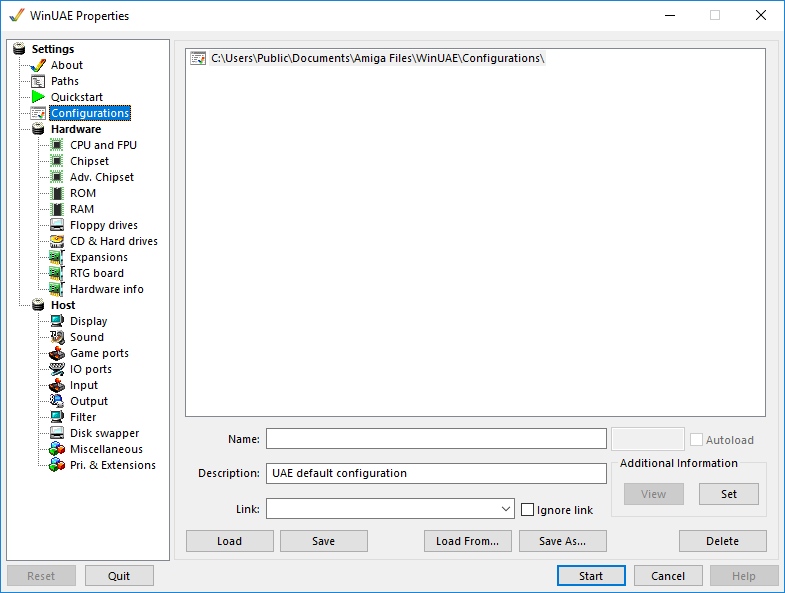
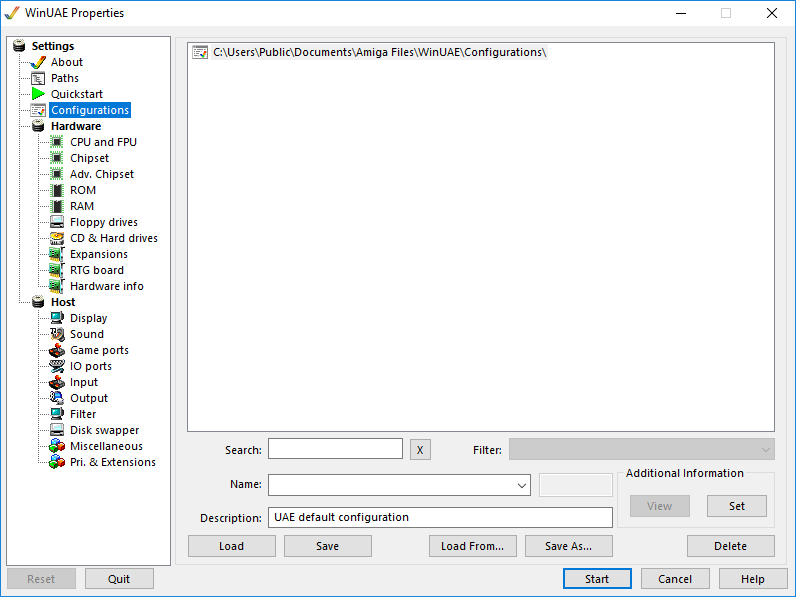
Latest updates for Winuae 4.1.0 Changes: Configurations,  CPU, Chipset, Misc, FAQ, Bugs, about

diff --git a/gui/misc.htm b/gui/misc.htm
@@ -24,16 +24,16 @@
     combination to quit WinUAE. If this option is enabled, the
     ALT-F4 combination can be used by the Amiga properly, and
     CTRL-F11 will quit WinUAE.<br>
-    <strong>Don't show taskbar button</strong>. Removes taskbar
+    <strong>Don't show taskbar button</strong>. Removes the taskbar
     button.<br>
-    <strong>Don't show notification icon.</strong>    Removes WinUAE icon from notification area. <strong><br>
+    <strong>Don't show notification icon.</strong>    Removes the WinUAE icon from the notification area. <strong><br>
     Always on
     top</strong> Make sure WinUAE window is always on top of other
     windows.<br>
     <strong>Disable screensaver</strong> Temporarily stops screen
     saver feature for the display when using WinUAE<br>
     <strong>Syncronize clock</strong> Synchronizes Amiga clock with
-    PC clock<br>
+    the PC clock<br>
     <strong>One second reboot pause</strong> introduces a short
     pause before a reboot.<br>
     <strong>Faster RTG.</strong> Disables non needed emulation
@@ -56,7 +56,7 @@
     debug memory access to protected or unallocated memory
     areas.<br>
     <strong>Blank unused displays</strong> opens full screen
-    topmost black window(s)) option.<br>
+    topmost black window(s) option.<br>
     <strong>Start mouse uncaptured</strong>. Start WinUAE but do
     not capture mouse pointer in WinUAE window.<br>
     <strong>Start minimized.</strong> Minimize WinUAE window when
@@ -72,14 +72,15 @@
     write protection on the Hard drives window, so you can't
     accidentally untick it.<br>
     <strong>Hide all UAE autoconfig boards</strong> will hide any
-    extra Zorro boards etc from the emulator.<br>
+    extra Zorro boards  from the emulator.<br>
     <strong>Right Control = Right Windows key</strong>. Map the
     Windows key to a Right Ctrl key for some keyboards.<br>
     <strong>Windows shutdown / logoff notification.</strong>
     Display WinUAE screen in Windows shutdown or logoff screen if
     emulation session is active.<br>
-    <strong>Warn when attempting to close window</strong>. Display warning if window close is attempted.<br>
-    <strong>Power led dims when audio filter is disabled</strong>. Dim the power light when audio filter is disabled (see Sound tab).<br></p>
+    <strong>Warn when attempting to close window</strong>. Display a warning if window close is attempted.<br>
+    <strong>Power led dims when audio filter is disabled</strong>. Dim the power light when audio filter is disabled (see Sound tab).<br>
+    <strong>Automatically capture mouse when window is activated.</strong> Saves having to  capture mouse when swapping windows to Winuae.<br></p>
     <h1>Miscellaneous Options</h1>
     <p><span><strong>SCSI and CD/DVD access .</strong> Select type
     of ASPI layer to use e.g. SPTI, Adaptec, Nero ASPI or Frog
@@ -96,11 +97,11 @@
     <strong>Autodetect</strong> will attempt to load the language
     of the host system if it is available, or default to
     English.<br>
-    <strong>GUI Font.</strong> Select font for GUI, select a font
+    <strong>GUI Font.</strong> Select a font for GUI, select a font
     using Windows font selection window.<br>
-    <strong>List font.</strong> Select font for lists, select a
+    <strong>List font.</strong> Select a font for lists, select a
     font using Windows font selection window.<br>
-    <strong>Set default.</strong> Set default font.<br>
+    <strong>Set default.</strong> Set the default font.<br>
     <strong>Select</strong> font size from 60% to 140%.<br>
     <strong>Resizable GUI</strong> option to allow you expand or
     shrink the WinUAE Window.<br>

diff --git a/faq.htm b/faq.htm
@@ -62,7 +62,7 @@
       <li>Seems to be a bug in AsimCDFS, because it happens on real
       Amigas as well</li>
     </ul>
-    <p>cacheCDFS:</p>
+    <p>CacheCDFS:</p>
     <ul>
       <li>Set the MaxTransfer size to 0x10000 (65 kb) in the
       mountfile</li>
@@ -118,7 +118,7 @@
     really. WinUAE exceeds the capabilities of most hardware
     Amigas.</p>
     <h1>Can I use the mouse wheel?</h1>
-    <p>Yes, but like on a real Amiga, you need the tool Freewheel
+    <p>Yes, but like on a real Amiga, you need the  Freewheel tool
     from AmiNet.</p>
     <h1>How do I create a blank disk for saving files or
     games?</h1>
@@ -165,7 +165,7 @@
     <h1>Can I access the Internet through WinUAE?</h1>
     <p>Yes, you can through the PC's Internet connection by
     enabling the <strong>BSD socket library support</strong>
-    feature on the <a href="gui/misc.htm">Misc</a> page in
+    feature on the <a href="expansions.htm">Expansions</a> page in
     configuration.</p>
     <h1>How can I make or see inside ADF files without using an
     emulator?</h1>
@@ -198,7 +198,7 @@
     which includes Scalos (Workbench replacement), MUI 3.8,
     Picasso96, NewIcons, VisualPrefs, MCP, MUI tools and Screentab.
     There are add-ons for Music, Internet, Languages and
-    Shapeshifter.</p>
+    Shapeshifter. Also, try latest <a href="https://www.amikit.amiga.sk/">AmiKit</a> which includes Directory Ops and many useful tools.</p>
     <h1>When I run WinUAE, I get an error DINPUT8.DLL not
     found?</h1>
     <p>Please update your OS and WinUAE. If you are intentionally
@@ -221,8 +221,9 @@
     <h1>Is there an emulator for the AmigaOne or PPC
     processor?</h1>
     <p>There is a Classic Amiga emulator for the AmigaOne that
-    comes with AmigaOS 4. There is a PPC emulator for x86 systems
-    from <a href="links.htm#emulators">PearPC</a>.</p>
+    comes with AmigaOS 4. Winuae 4.0.0 or later now supports PowerPC (PPC) processors using the CyberStorm PPC or Blizzard PPC expansion accelerator boards, along with Picasso IV Zorro for graphics, Blizzard PPC SCSI-2 HD Controller for Hard disk support.<br>
+    Unfortunately, you cannot use uaescsi.device, uaenet.device, bsdsocket.library, PC drives or removable drive options as they are not compatible with PPC emulation.<br>
+    </p>
     <h1>What is the folder "displaydrivers" for?</h1>
     <p>These are the picasso96 UAE drivers. It is usually safe to
     ignore the drawer. The latest Picasso96 installer has working

diff --git a/gui/chipset.htm b/gui/chipset.htm
@@ -14,7 +14,7 @@
     <ul>
       <li><strong>OCS</strong>: This was the first or original chipset, used in
       the Amiga 1000.</li>
-      <li><strong>ECS Agnus</strong> Uses enhanced Fat Agnus which
+      <li><strong>ECS Agnus</strong> Uses enhanced Fat <a href="../background/custchips.htm">Agnus</a> which
       supplies 1MB of Chip RAM.</li>
       <li><strong>Full ECS</strong>: This was the next generation
       of Amiga chipsets. Compared to OCS, they provided higher
@@ -24,7 +24,7 @@
       <strong>NOTE:</strong> AGA modes do not work with 8-bit color
       depth screen modes!</li>
       <li><strong>ECS Denise</strong> Use the new ECS display modes
-      with Denise Chip.</li>
+      with <a href="../background/custchips.htm">Denise</a> Chip.</li>
     </ul>
     <p><strong>NTSC</strong> Enables US NTSC screen mode (default
     is PAL).<br>
@@ -40,12 +40,12 @@
     <h1>Options</h1>
     <p><strong>Keyboard connected</strong> Sets whether a keyboard
     is connected to the machine<br>
-    <br>
+    <strong>Subpixel display emulation</strong>. Support hires/superhires pixel positioning and borderblank horizontal signle hires pixel offset fully emulated. Requires more CPU power.<br>
     <strong>Immediate Blitter</strong> Does requested blits
-    immediately. The Blitter serves to provide extremely fast,
+    immediately. The <a href="../background/custchips.htm">Blitter</a> serves to provide extremely fast,
     animated graphics that can be designed to be especially
     realistic.<br>
-    <strong>Wait for Blitter</strong>. Wait for the Blitter to
+    <strong>Wait for Blitter</strong>. Wait for the <a href="../background/custchips.htm">Blitter</a> to
     complete operations.<br>
     <br>
     <strong>Video port display hardware.</strong> Selection of
@@ -81,7 +81,7 @@
     <strong>Percentage</strong> of lock between sources.<br>
     <strong>Include alpha channel in screenshots and video
     captures.</strong><br>
-    <strong>Keep aspect ratio</strong><br>
+    <strong>Keep aspect ratio</strong> Keep source width and height.<br>
     <strong>Genlock file</strong> Image file or video file to
     use.</p>
   </article>

diff --git a/gui/cpu.htm b/gui/cpu.htm
@@ -17,14 +17,14 @@
       <li><strong>68010</strong> is a slightly more advanced 68K
       member, but never actually shipped in a real Amiga.</li>
       <li><strong>68020</strong> is a much more advanced 68K CPU,
-      with some new instructions, and a fully 32-bit engine. Used
+      with some new instructions, and it has a fully 32-bit engine. Used
       in the A2500 for brief period on the A2520 card. If 24 bit
-      addressing is enabled, it is the same as th 68EC020 chip in
+      addressing is enabled, it is the same as the 68EC020 chip in
       the A1200.</li>
       <li><strong>68030</strong> This is a mid range CPU used in
-      the A3000 and low end A4000s.</li>
+      the A3000 and the low end A4000s.</li>
       <li><strong>68040</strong> is the top CPU provided with the
-      A4000 desktop computer</li>
+      A4000 desktop computer.</li>
       <li><strong>68060</strong> is the top end CPU mainly provided
       on accelerator cards and the A4000T. It requires the
       68060.library installed before using.</li>
@@ -36,7 +36,7 @@
     this setting for proper compatibility.<br>
     <strong>Data cache emulation</strong> Besides the instruction
     cache, you can also emulate the data cache on the CPU.<br>
-    <strong>JIT</strong> can be enabled to access the Advanced JIT
+    <strong>JIT</strong> can be enabled to access the Advanced Just In Time
     settings if the 68030 or better is selected (See below).<br>
     <strong>68040 MMU</strong> enables the Memory Management Unit
     of the 68040 for operating systems like Linux on the Amiga. It
@@ -91,7 +91,7 @@
     <h1>PPC CPU Settings</h1>
     <p><strong>PPC CPU Emulation (Blizzard PPC / Cyperstorm
     PPC)</strong> Enables the PPC emulation; A separate plugin is
-    required<br>
+    required (see <a href="expansions.htm">Expansions</a>).<br>
     <strong>Stopped M68K CPU idle mode</strong> Sets level of idle
     mode for the 680x0 processor</p>
     <h1>x86 Bridgeboard CPU options</h1>

diff --git a/gui/configurations.htm b/gui/configurations.htm
@@ -16,18 +16,19 @@
     and then clicking the Load button, or by double-clicking a
     configuration in the list. You can use the Load from button to
     load a configuration from a different location on the hard
-    disk.<br>
+    disk. Click Start to begin the emulator.<br>
     Additionally, you can double-click any .uae config-file from
     the Windows Explorer, or from a Desktop Shortcut. The
     configuration will load, and if the <a href="misc.htm">Show GUI
     on Startup</a> setting is disabled, WinUAE will immediately
     launch into emulation-mode, bypassing the GUI completely.<br>
+    If you have a lot of configurations, you can use the Search or Filter boxes to list the required configurations you want to use.<br>
     To save your changes for a configuration which you've loaded,
     simply press the Save button. If you've made changes to a
     configuration and want to save it under a different name,
     simply change the Name field on this page of the GUI or select
     Save As. You can also adjust the Description field.<br>
-    Select a configuration from the list, and click the Delete
+    To remove an old configuration, select a configuration from the list, and click the Delete
     button.</p>
   </article>
   <footer>

diff --git a/emulation/jit.htm b/emulation/jit.htm
@@ -48,6 +48,8 @@
     something that works with "no" and doesn't with "yes", it most
     likely is a bug and you should <a href=
     "../credits/contrib.htm">report</a> it.</p>
+    <p><strong>Catch unexpected exceptions. </strong>If there is an error, then this option will catch it to avoid system crash.<br>
+    </p>
   </article>
   <footer>
     Help content is under the terms of the <a href=

diff --git a/bugs.htm b/bugs.htm
@@ -17,7 +17,7 @@
     all bug reports:</p>
     <ul>
       <li>WinUAE Version</li>
-      <li>Host Operating System (Windows XP, Vista, 7, 8 etc.)</li>
+      <li>Host Operating System (Windows XP, Vista, 7, 8, 10 etc.)</li>
       <li>DirectX version</li>
       <li>PC Graphics card and the driver version</li>
       <li>Sound card and the driver version</li>
